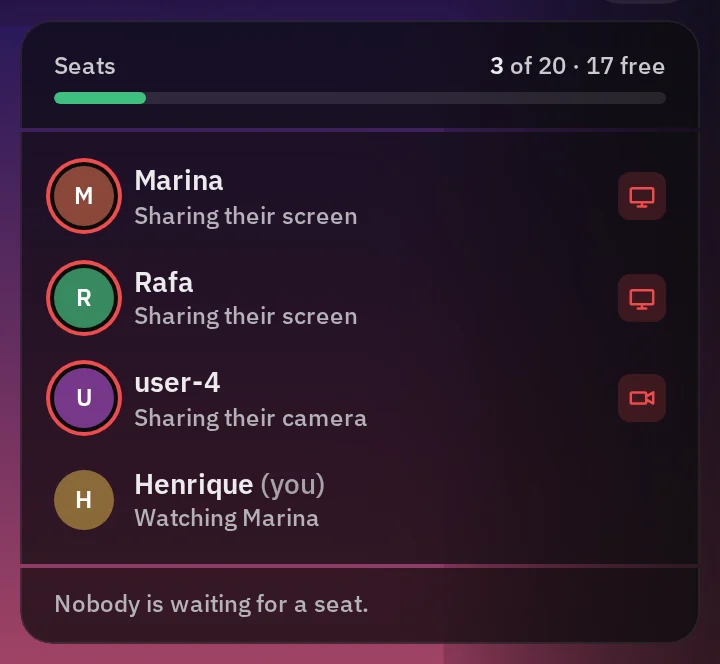
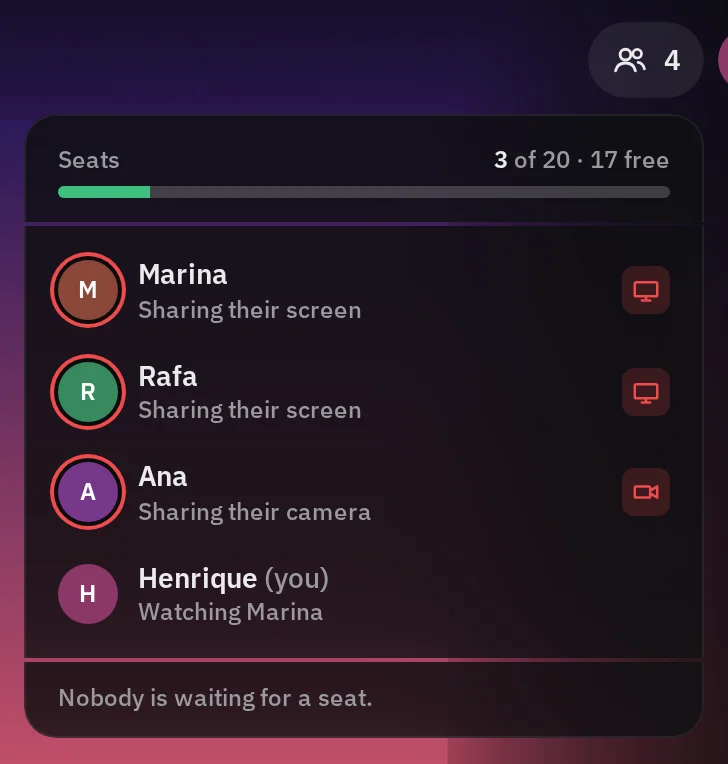
docs(web): the header in features/room, the Menu row, second lines and hovers (0189)

Changed region(s): [[0.0, 0.0, 1.0, 0.8133], [0.0, 0.6928, 0.9472, 1.0]]

diff --git a/docs/architecture.md b/docs/architecture.md
@@ -22,14 +22,15 @@ Everything is in `app/src`:
 | `pages/` | One component per route: `HomePage`, `RequestAccessPage`, `RoomPage`, `AdminPage` |
 | `media/` | The ambilight's drawing (`ambilight.ts`), until the stage moves into the room feature |
 | `features/room/stores/room-store/` | The room's store, a unit: the room as data (`room.model.ts`: people by their id, streams, who watches whom, arrivals, the seat, the activity, my streams' steps, changed by pure functions), what the room shows (`room.selectors.ts`), and `RoomStore` (`room.store.ts`): the one place the seat, the streams and entering again are polled, the video room joined, and the room's actions sent; its hooks `use-room-store` (the store, the room, the video) and `use-room-seat` (the seat and its actions), and the helpers only it uses in `utils/` (the streams, the API's answer, the activity's events, a sharer's feed, keeping the same record, waiting for a seat) |
-| `features/room/hooks/` | The room's hooks, each one job over the store: the sound unlock, the devices, the camera remembered; what the room shows (`use-room-view`); what I send (`use-my-sending`: my streams, their settings through a queue, the camera's preview and switch, changing the window), keeping my streams and the API in step (`use-stream-sync`), my voice (`use-my-voice`); the activity (`use-activity-feed`), the watch report (`use-watch-report`); who's big (`use-stage`), what I hear and what's downloaded (`use-hearing`); the mic's level; the stream's elapsed time (`use-elapsed`) and whether the keyboard was used last (`use-keyboard-last`); the stage's picture shape (`use-video-shape`), the round buttons' row holding the clicked button still (`use-pinned-row`), what's fullscreen and the windows that follow it in (`use-fullscreen-element`, `use-fullscreen-host`) |
-| `features/room/utils/` | The helpers several of the room's pieces share, each with its test beside it: the watch report, the stage pick, hearing, what a viewer can pick, when the room can show, a person's id, the first name, a clock's two digits |
+| `features/room/hooks/` | The room's hooks, each one job over the store: the sound unlock, the devices, the camera remembered; what the room shows (`use-room-view`); what I send (`use-my-sending`: my streams, their settings through a queue, the camera's preview and switch, changing the window), keeping my streams and the API in step (`use-stream-sync`), my voice (`use-my-voice`); the activity (`use-activity-feed`), the watch report (`use-watch-report`); who's big (`use-stage`), what I hear and what's downloaded (`use-hearing`); the mic's level; the stream's elapsed time (`use-elapsed`) and whether the keyboard was used last (`use-keyboard-last`); the time now, ticking (`use-now`), the ambilight's settings, remembered (`use-ambilight`); the stage's picture shape (`use-video-shape`), the round buttons' row holding the clicked button still (`use-pinned-row`), what's fullscreen and the windows that follow it in (`use-fullscreen-element`, `use-fullscreen-host`) |
+| `features/room/utils/` | The helpers several of the room's pieces share, each with its test beside it: the watch report, the stage pick, hearing, what a viewer can pick, when the room can show, a person's id, the first name, a clock's two digits, an activity event in words |
 | `features/room/types/`, `features/room/constants/` | The room's types (the room as data, a person, a stream, a sharer, the activity, each hook's inputs) and its constants (the poll, the activity kept, the room's messages, the watch report's delays) |
 | `components/stage/` | The player and what's on it: the stage, the ambilight, the controls by owner: my own stream's round buttons (`PlayerButtons`, on the shared `Icon` and `IconButton`, the drop-ups on live ones) and, over someone else's stream, `ViewerBar` (what I hear at the left, each sound its own button and slider; my mic or Go live at the right); the voice I hear (`VoiceAudio`), each person's switches and volumes held by the stage for the visit (the hook `features/room/hooks/use-hearing.hook.ts`, its rules in `features/room/utils/hearing.util.ts`), and the previews' buttons (`HearToggles`, in a small preview's row, `PreviewTray`, which floats on its own layer over the page and follows its preview, opened through `usePreviewTray`; a preview's stack and its swap's moment in `stack.ts`); the settings panel (`SettingsPanel`, its Voice tab's mic level in `MicTest`), the facecam, the previews, the empty stage (`EmptyStage`, a TV on standby: the ways to start, alone in their row; with nobody live the settings are `ViewerBar`'s settings-only form, in the corner; its corners' glow in `CornerGlow`; its TV static in `StaticNoise`, a small canvas the page draws 20 times a second, its grain and bands scaled to the stage; the static's light round the stage in `StaticGlow`; both read their bands from `staticBands.ts`, so they roll together, and its `tv` flag lets the TV's turn-on play only the first time the stage stands by in a visit), the info row. The stage is two layers: its box holds every control (the round buttons, the sounds, Go live, the fullscreen button) and takes the pointer; a view inside it holds the picture and its ambilight in the picture's shape |
-| `components/room/` | The room around the stage: header, footer, people, activity (pill, list), account menu, the waiting screen and the seat offer |
+| `features/room/components/` | The room's pieces, flat, the area in the name, each with its test and stories: the header (`header/`), the activity pill (`header-activity-pill/`, its moving line `header-activity-ticker/`) and list (`header-activity-list/`), who's here (`header-people-button/`, the seats `header-seats/`), my picture and my menu (`header-my-picture-button/`, `header-my-menu/`) |
+| `components/room/` | The room's footer, the waiting screen and the seat offer, until they move in (#192) |
 | `shared/stores/floating-store/` | What floats, one thing on screen at a time: `useFloating` tells the store a piece is open and its kind (opened by a click or the keyboard, opened on a mouse rest, a tooltip). The store's rules decide what closes, what's inside another stays, and its one listener takes a press outside and Escape, which returns focus to the button. Each piece holds its own open state; the settings panel stays pinned and doesn't join |
 | `shared/components/` (floating blocks) | On that store: `dropdown/` (its sections are the Panel's), `picker/` with `picker-list/` (a list that floats over its panel, masking what's behind it in the nearest `[data-list-host]`; a menu of `menuitemradio` options), `drop-up/` and `drop-up-row/` (a labelled `fieldset`; its gestures can redirect to an open panel), `tooltip/` (the app's only tooltip, on its own layer, describing its control for screen readers). `picker/` and `drop-up/` can be told to be open (`open`, `onOpenChange`); `cue/` is how a control is pointed at |
-| `shared/components/` (the design system) | One block per purpose (ADR-0094), each with its test and stories: `button/`, `slider/`, `segmented/` (real radios), `toast/` (its state in `shared/stores/toast-store/`, shown with `toastStore.show`), `wordmark/` (the mark, full or icon; its geometry, timeline and favicon in its `utils/`, read by `scripts/brand-icons.mjs` too), `panel/` and `panel-section/` (the one glass), `page-shell/` (home, form, waiting, message), `field/`, `stat-pill/` and `count-chip/` (counters by space), `control-label/` and `section-heading/` (labels by space) |
+| `shared/components/` (the design system) | One block per purpose (ADR-0094), each with its test and stories: `button/`, `slider/`, `segmented/` (real radios), `toast/` (its state in `shared/stores/toast-store/`, shown with `toastStore.show`), `wordmark/` (the mark, full or icon; its geometry, timeline and favicon in its `utils/`, read by `scripts/brand-icons.mjs` too), `panel/` and `panel-section/` (the one glass), `page-shell/` (home, form, waiting, message), `field/`, `stat-pill/` and `count-chip/` (counters by space), `control-label/` and `section-heading/` (labels by space), `menu-row/` (a menu's action: a link or a button; its menu sets its role) |
 | `routes/` | Which page opens at which address, and who may open it: the root (`root/`), the route table (`app-routes/`), the guard (`route-guard/`, its rule in its `utils/route-access.util.ts`) |
 | `services/xove-api-service/` | The HTTP client (`xove-api.service.ts`): one function per endpoint, the call itself and its errors as `ApiError`; the CSRF token and the headers in `utils/`, the API's types in `types/`, its messages in `constants/` |
 | `shared/stores/auth-store/` | Who is signed in (`AuthProvider` in `auth.store.tsx`, which asks `GET /api/me` once and on demand; `useAuth` in its `hooks/`) |
@@ -38,8 +39,7 @@ Everything is in `app/src`:
 | `services/livekit-service/` | The video server, the only place that uses `livekit-client`: the adapter (`livekit.adapter.ts`: connects with the access it's given, keeps the room's state per person, takes commands), what's captured, sent, changed and heard (`capture`, `send`, `screen-change`, `screen-sound`, `voice` services), what someone sends read into plain data (`remote-media.adapter.ts`), the noise gate's processor; its helpers in `utils/` (how streams are sent, the room's state per person, the mic's problems), its types and constants beside them |
 | `services/media-devices-service/` | The browser's devices: the screen picker, the cameras and mics and the mic's meter as services (they ask the browser); a phone or a tablet (`utils/is-handheld.util.ts`), the picker's request and the noise gate's maths as helpers; the stream presets in `constants/` |
 | `features/phone-notice/` | What phones and tablets see instead of the app ([below](#phones-and-tablets)): its page and art in `components/` |
-| `features/admin/utils/` | The admin page's helper ("3 min ago"), until the page moves in |
-| `shared/` | What the whole app uses: the auth store, the time constants, the building blocks in `components/` (`icon`, `icon-button`, `face`, `switch`, `live-badge`, `headline`, `error-notice`), the icons' drawings and my mic's state (`constants/`, `types/`, `utils/`), the design tokens (`styles/tokens.css`, every value the CSS uses) and the page's base rules (`styles/global.css`) |
+| `shared/` | What the whole app uses: the auth store, the time constants, the building blocks in `components/` (`icon`, `icon-button`, `face`, `switch`, `live-badge`, `headline`, `error-notice`), the icons' drawings, my mic's state and how long ago (`constants/`, `types/`, `utils/`), the design tokens (`styles/tokens.css`, every value the CSS uses) and the page's base rules (`styles/global.css`) |
 | `testing/` | The test helpers: a fake API, a fake LiveKit, and rendering the app at a URL ([Testing](testing.md)); only tests import it |
 
 At the top, `main.tsx` starts the app, `routes/root/root.component.tsx` chooses between the app and the phone notice, and `routes/app-routes/app-routes.component.tsx` holds the routes.
@@ -118,7 +118,7 @@ sequenceDiagram
 | Where each of my streams is (off, picking, starting, live, stopping) | the room's model | This page only |
 | Who's on my stage | `use-stage` | This page only |
 | What I hear from each person, and what's downloaded | `use-hearing` | This page only (the volumes I start from: the browser) |
-| How I send (quality, mode, the camera picked, my mic and its processing and line), the volumes I start from (a screen's sound, a voice), the ambilight's settings | `services/preferences-service/preferences.service.ts` | The browser (`localStorage`, `xove.*`) |
+| How I send (quality, mode, the camera picked, my mic and its processing and line), the volumes I start from (a screen's sound, a voice), the ambilight's settings | `services/preferences-service/preferences.service.ts` (the ambilight's through `use-ambilight`) | The browser (`localStorage`, `xove.*`) |
 | Each person's mutes and volumes, for this visit | `Stage` | This page only |
 | Whether the settings are open, the setting a live button asked for, and the camera's preview | `RoomPage`, `use-camera-preview` | This page only |
 

diff --git a/docs/design.md b/docs/design.md
@@ -60,7 +60,7 @@ The pictures are shot from the real app (`design-sheet.mjs`, see [Keeping this p
 
 **No home-screen app** while Xovê is desktop only: the page links no manifest and has no home-screen icons or app tags, so no browser offers to install it; Safari's "Add to Home Screen" only adds a bookmark. It comes back with the phones.
 
-`node scripts/brand-icons.mjs` (from `app/`) rewrites the favicon from `mark.ts`. A test fails if the favicon drifts from the geometry.
+`node scripts/brand-icons.mjs` (from `app/`) rewrites the favicon from the Wordmark's geometry (`shared/components/wordmark/utils/`). A test fails if the favicon drifts from the geometry.
 
 **Interface icons** are drawn inline as SVG in the components, on a 20 × 20 grid (12 × 12 for the small arrows), with round 1.5–2 px strokes in `currentColor`, so they take the colour of their button. There's no icon library: a new icon follows the same grid and stroke.
 
@@ -401,6 +401,22 @@ The sliders' rules stay one browser per rule, checked by `npm run check:styles` 
 - Open 8 px under their button; **one thing on screen at a time** (the [floating rule](#drop-ups)); they unroll by their height (260 ms).
 - **Activity:** the latest events, each with its icon, what happened and when. **People:** the seats bar (green), who's here and what each is doing or watching, and the queue. **Account:** me and my connection, the ambilight's switch and brightness, Admin for admins, Sign out.
 
+### Menu rows
+
+![The Go live menu, on Menu rows](images/design/go-live.png)
+
+`shared/components/menu-row` (`MenuRow`): **one action in a menu**, the same in every menu (my menu's Admin and Sign out, the Go live menu's three).
+
+- **An icon, then the words:** the icon 17 px in the muted grey; the words 13.5 px, medium (500), in the text colour; 9 × 11 px inside, 9 px corners.
+- **Pointed at or focused:** a faint white (6%) under it, and its icon brightens to the text colour. **Red is never a hover:** it stays for live and attention.
+- **A link when it goes to a page** (Admin), a button otherwise. The menu gives it its role: `menuitem` in a menu, none in a dialog with other controls (my menu).
+- **Can't be used now:** dimmed to 45%, its reason in its tooltip, and said in a toast on a click.
+
+### Second lines and hovers
+
+- **One grey for a second line:** what describes something under or beside its name (a role, a connection, what someone is doing or watching, "(you)", the seats and the queue lines) is `--text-muted`. The first line, the name, is the text colour.
+- **A hover promises a click:** only what a click acts on lights up when pointed at. A list of people, or anything else to read, stays still.
+
 ### The panel
 
 ![The settings, on the Panel](images/design/settings-popover.png)
@@ -550,7 +566,7 @@ Its content stays clear of the phone's bars (the browser's safe areas).
 - **Unavailable, not hidden.** An option that can't be used here stays in its place, greyed out (a text option, like a tab: `--text-disabled` at 50%; a control, like a round button or a sound I can't hear: 45% opacity), with its reason in its tooltip, so a panel looks the same on every device.
 - **Draft first:** a visual change starts as a draft approved before the work starts: a change to screens that exist, as a prototype in the app itself; a brand-new screen may start as a clickable HTML draft with these tokens and fonts. The approved draft is the reference the code must match.
 - **Check every size:** a 2K monitor both ways (2560 × 1440 and 1440 × 2560), 1920 × 1080, a narrow window, the empty room, and the phone and tablet screen.
-- **Reuse the components:** the shared blocks in `shared/components/`, each shown in Storybook: `Icon`, `IconButton` with its variants, `Face`, `Switch`, `LiveBadge`, `Headline`, `ErrorNotice`, `Button`, `Slider`, `Segmented`, `Toast`, `Wordmark`, `Panel` and `PanelSection`, `PageShell`, `Field`, `StatPill`, `CountChip`, `ControlLabel`, `SectionHeading`, `Dropdown`, `Picker`, `DropUp`, `Tooltip`; and `StageNotice`. **One block per purpose** (ADR-0094): what does the same job is one block, even where today's values differ; what does a different job is its own block, however alike it looks, so changing one never changes another. A new control follows their sizes, motion and focus ring. A choice from a list is a `Picker` (one box, floating, with the slim scrollbar when long), a few options a `Segmented`, and a quick action over a live button a `DropUp`, everywhere in the app.
+- **Reuse the components:** the shared blocks in `shared/components/`, each shown in Storybook: `Icon`, `IconButton` with its variants, `Face`, `Switch`, `LiveBadge`, `Headline`, `ErrorNotice`, `Button`, `Slider`, `Segmented`, `Toast`, `Wordmark`, `Panel` and `PanelSection`, `PageShell`, `Field`, `StatPill`, `CountChip`, `ControlLabel`, `SectionHeading`, `MenuRow`, `Dropdown`, `Picker`, `DropUp`, `Tooltip`; and `StageNotice`. **One block per purpose** (ADR-0094): what does the same job is one block, even where today's values differ; what does a different job is its own block, however alike it looks, so changing one never changes another. A new control follows their sizes, motion and focus ring. A choice from a list is a `Picker` (one box, floating, with the slim scrollbar when long), a few options a `Segmented`, and a quick action over a live button a `DropUp`, everywhere in the app.
 - **Panels open over the button that opened them,** never from a side. **Panels are frosted, never opaque**; nothing over the video hides the round buttons.
 - **Say what effects cost:** blur, canvases and animations run on every frame; keep them to what's here.
 - **A screen says only what matters.** No readouts that imitate real equipment (clocks, meters, rulers, format tags, made-up numbers), and no frame inside another frame.

diff --git a/docs/components/today.md b/docs/components/today.md
@@ -28,7 +28,7 @@ The room's top bar: the wordmark at the left, the activity pill in the middle, t
 
 | Today | Goes to | What happens |
 | --- | --- | --- |
-| `components/room/RoomHeader.tsx` | `features/room/components/header/` | Kept, then redrawn in the next version |
+| `features/room/components/header/` (`Header`) | Here | Done (#189); redrawn in the next version |
 
 ### Wordmark
 
@@ -53,7 +53,7 @@ What happened in the room (someone joined, went live), as a pill that opens a li
 
 | Today | Goes to | What happens |
 | --- | --- | --- |
-| `components/room/ActivityPill.tsx`, `ActivityList.tsx`, `activityText.ts` | `features/room/components/header-activity-pill/`, `activity-list/` (the text in `utils/`) | Kept; the next version's bell replaces the pill |
+| `features/room/components/header-activity-pill/` (its seen marks a hook), its moving line `header-activity-ticker/`, `header-activity-list/`; the words in `features/room/utils/activity-text.util.ts`, how long ago in `shared/utils/time-ago.util.ts` | Here | Done (#189); the next version's bell replaces the pill |
 
 ### People button
 
@@ -66,7 +66,7 @@ How many people are here; it opens the seats and the list of people with what ea
 
 | Today | Goes to | What happens |
 | --- | --- | --- |
-| `components/room/PeopleButton.tsx` | `features/room/components/header-people-button/` | Kept; the next version's people column replaces it |
+| `features/room/components/header-people-button/` (the order, the line under each name and the queue in its `utils/`), the seats `header-seats/` | Here | Done (#189); the next version's people column replaces it |
 
 ### Account button and menu
 
@@ -79,7 +79,7 @@ My picture; it opens my menu.
 
 | Today | Goes to | What happens |
 | --- | --- | --- |
-| `components/room/AccountButton.tsx` (it holds a switch, a slider and the footer's items) | `features/room/components/header-my-picture-button/`, `my-menu/` (on the shared Dropdown, Switch and Slider) | Kept |
+| `features/room/components/header-my-picture-button/` and `header-my-menu/` (on the shared Dropdown, Switch, Slider and Menu row); the ambilight's settings in `features/room/hooks/use-ambilight.hook.ts` | Here | Done (#189) |
 
 ## The stage
 
@@ -296,7 +296,7 @@ For the admin: the access requests and the members.
 
 | Today | Goes to | What happens |
 | --- | --- | --- |
-| `pages/AdminPage.tsx` | `features/admin/` | Kept |
+| `pages/AdminPage.tsx` ("3 min ago" from `shared/utils/time-ago.util.ts`) | `features/admin/` | Kept |
 
 ## Building blocks
 

diff --git a/docs/media.md b/docs/media.md
@@ -90,4 +90,4 @@ The picture's own edges glow around the stage, like a TV's ambient light. It's d
 
 **When it updates** (`components/stage/Ambilight.tsx`): with the screen's refresh (`requestAnimationFrame`, at most 60 times a second), only while the tab is visible, the video plays and the ambilight is on. With reduced motion it updates twice a second instead, a gentle step each time. With nobody live there's no ambilight: the empty stage's corners glow on their own (still CSS: a blurred L at each corner, following the ambilight's switch and brightness).
 
-**What it costs:** one small canvas draw and one blur per frame while a video plays. The ambilight's switch and brightness are in the account menu.
+**What it costs:** one small canvas draw and one blur per frame while a video plays. The ambilight's switch and brightness are in my menu; `features/room/hooks/use-ambilight.hook.ts` holds them and remembers each change.
